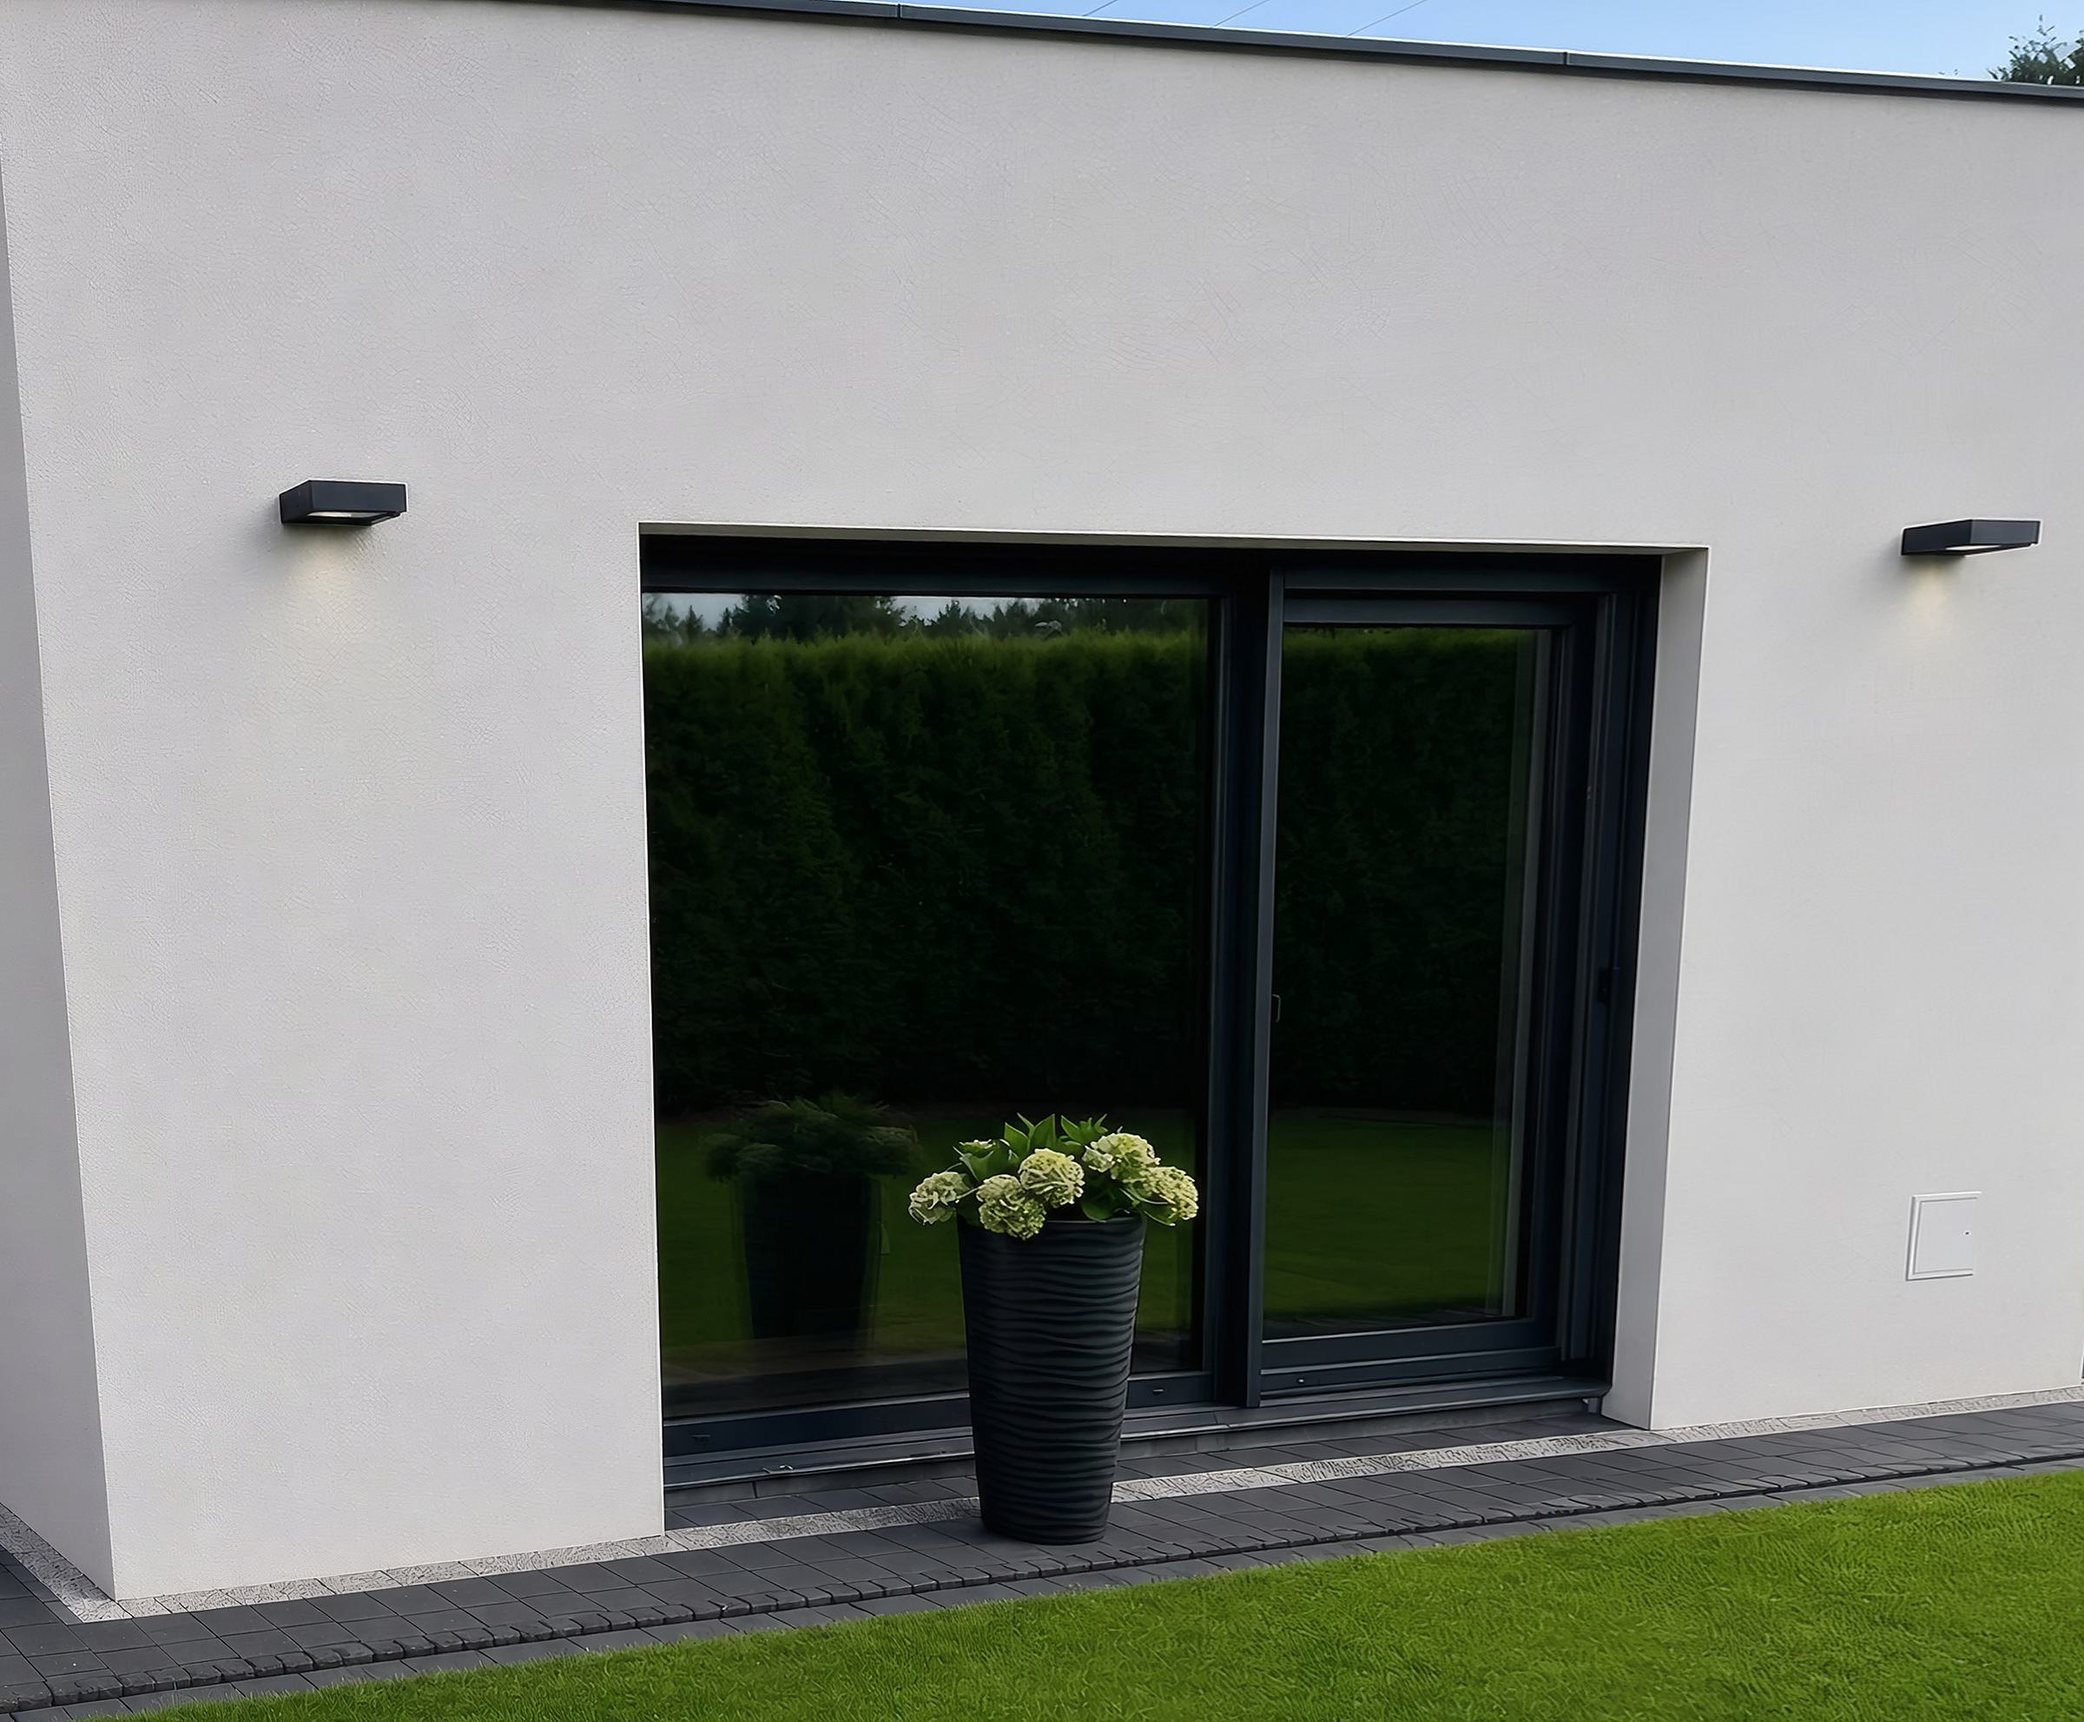
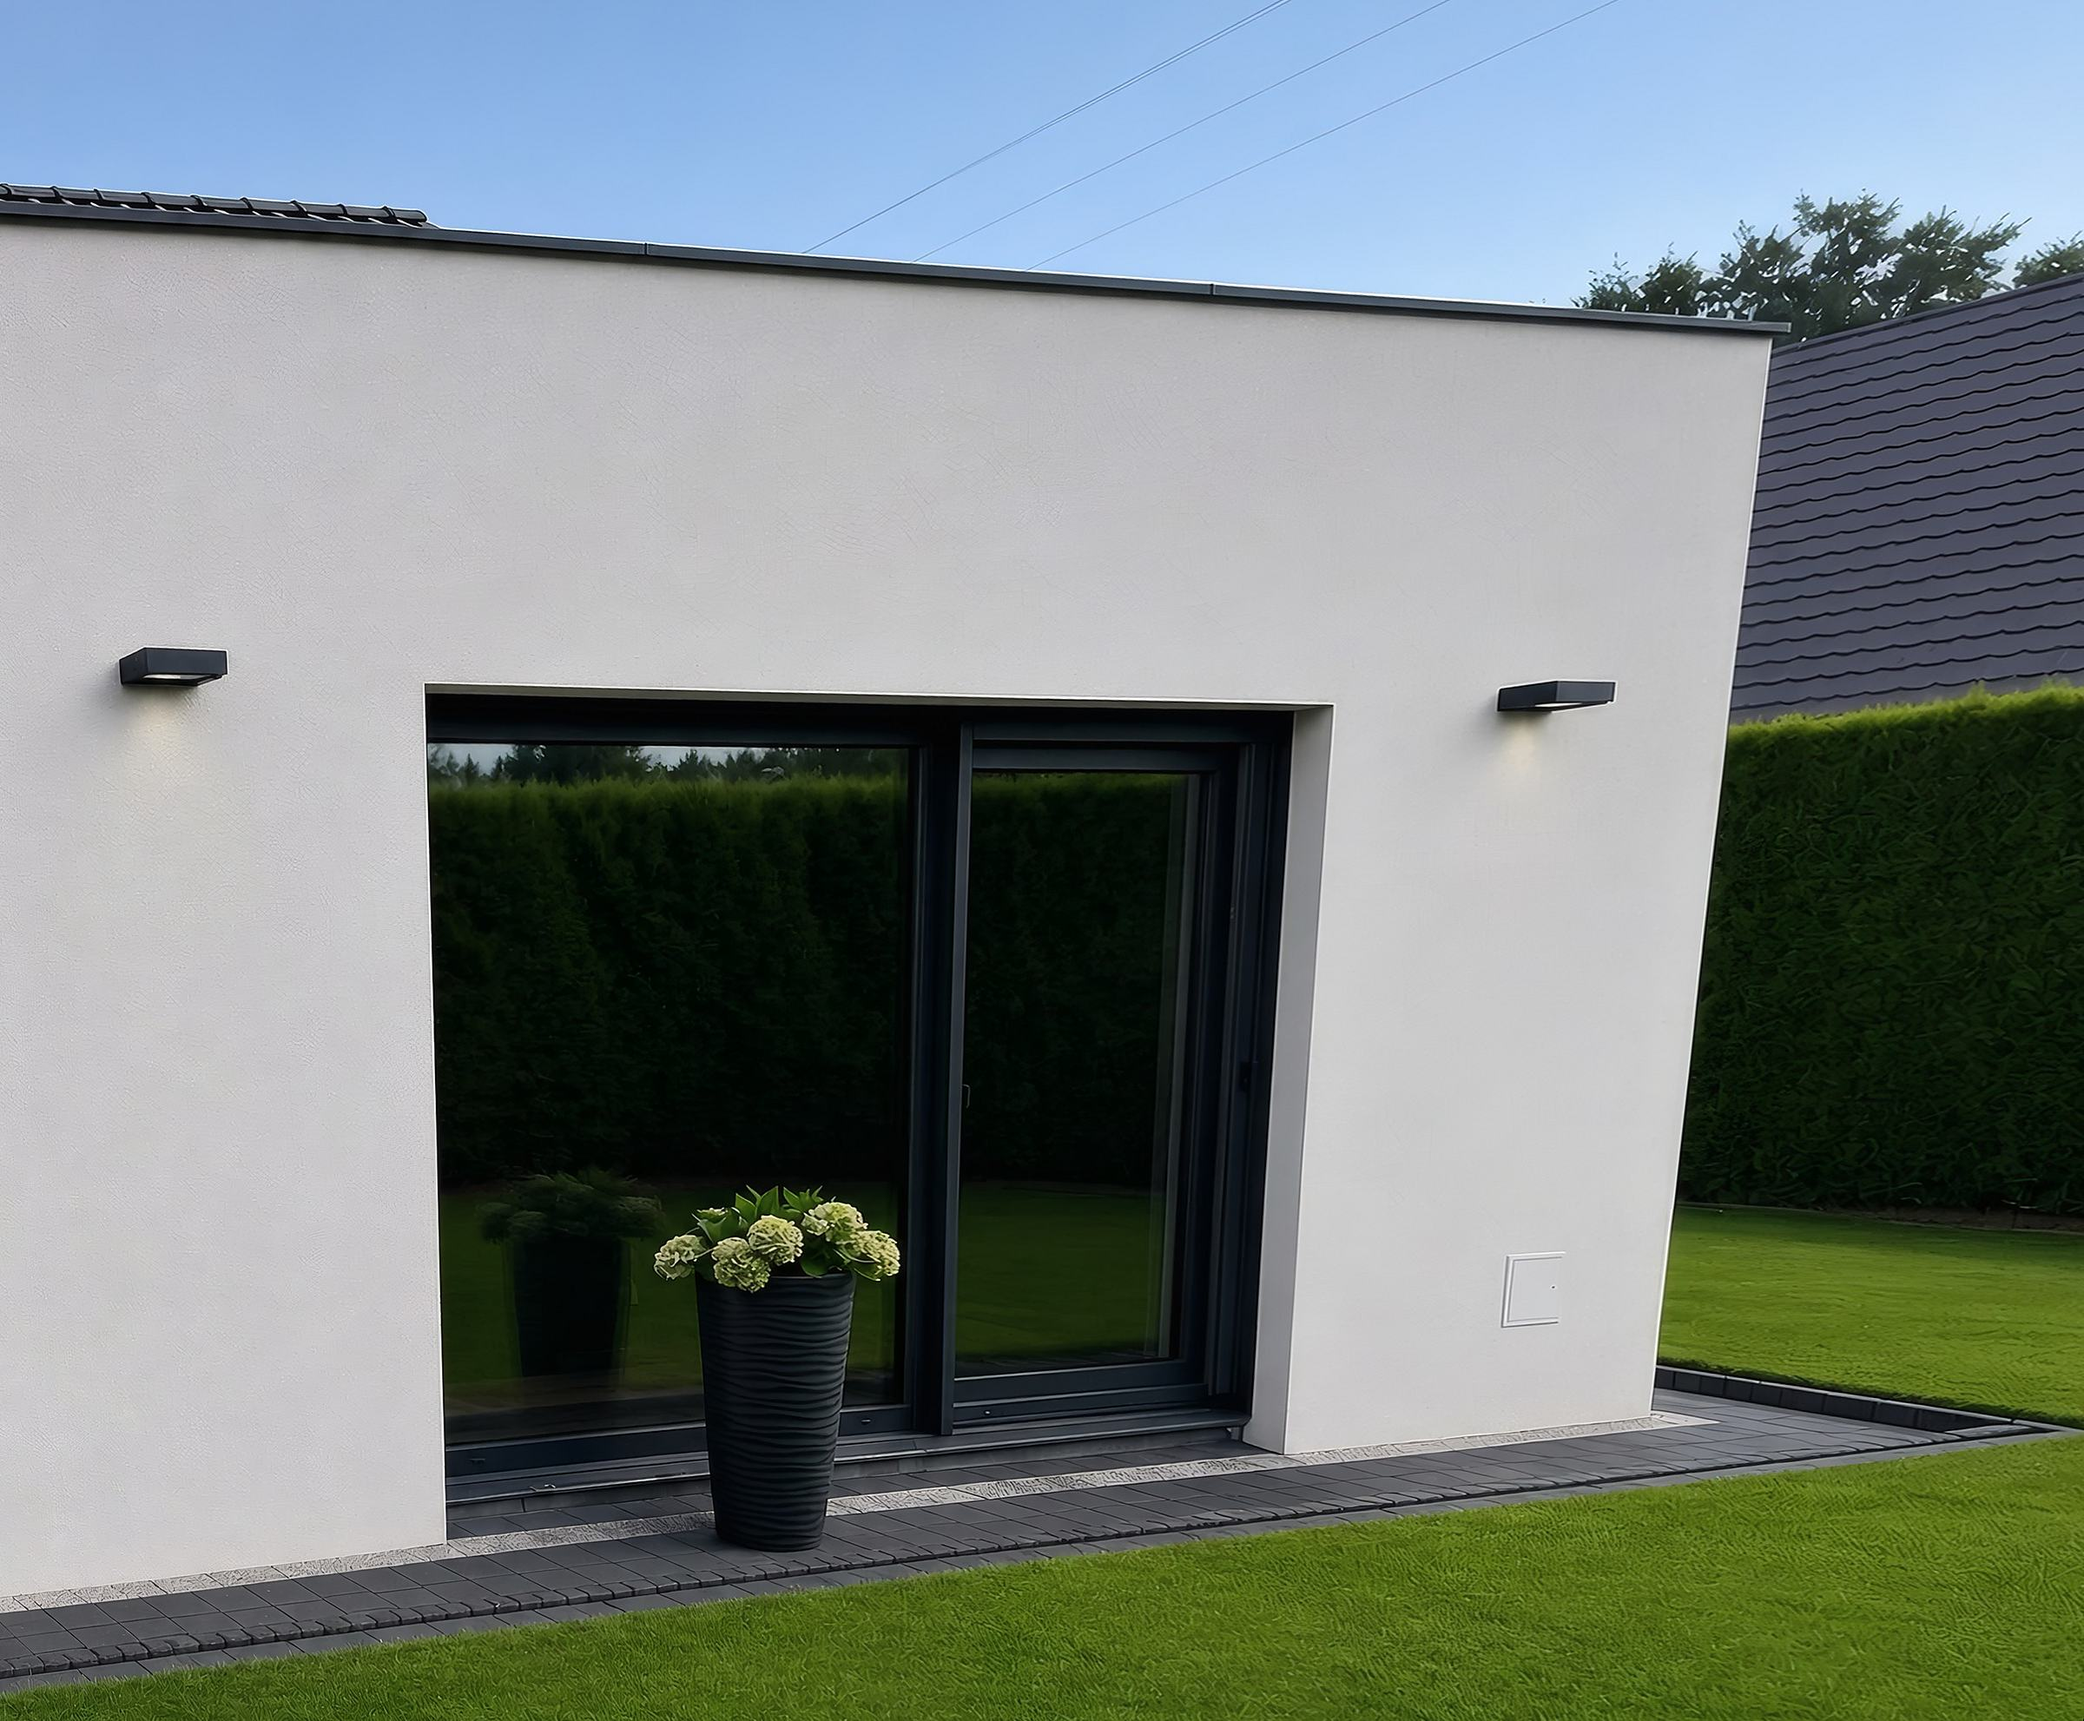
Kadr "po" oddalony o 18 procent
K.: "mozemy oddalic kadr tego zdjecia efektu po?". Mozna, bo z klocka zniknela
przesuwana linia - strzalka przeskakuje cale kadry, wiec kazde zdjecie moze miec
wlasne pole widzenia. "Po" wrocilo na wlasne, szersze okno: widac dach, narozznik,
opaske i trawnik.

Granica policzona, nie przepisana: _dokumentacja/maks-okno.py szuka najwiekszego
prostokata o proporcji pary, ktory w calosci lezy na pikselach zdjecia po homografii.
Wyszlo 1165 jednostek wobec 990 wspolnego okna, lewy gorny rog (70, -130).

Claude-Session: https://claude.ai/code/session_01UUJsy11A9owZ65mSof3JRs

diff --git a/przygotuj-media.py b/przygotuj-media.py
@@ -332,34 +332,28 @@ WAGI_SUWAKA = [3.0, 3.0, 1.0, 1.0, 1.0, 1.0]
 # i w atrybutach width/height w `pages.py`.
 OKNO_SUWAKA = (4, 4, 994, 822)
 
-# ── OKNO SZERSZE DLA „PO" (K. 11.09.2026: „można oddalić to zdjęcie po") ──────────
-# Wspólne okno wyżej jest przecięciem dwóch kadrów i dlatego „po" wychodziło z niego
-# przyciętym zbliżeniem na sam mur z oknem - nie było widać ANI dachu, ANI narożnika,
-# ANI trawnika, czyli tego, co klient sprzedaje. Powiększyć wspólnego okna się nie da:
-# „przed" po prostu nie ma tam pikseli (zmierzone - pokrycie 61 %).
+# -- OKNO SZERSZE DLA "PO" (K. 11.09.2026 i znow 14.09: "mozemy oddalic kadr tego
+#    zdjecia efektu po?") ---------------------------------------------------------
+# Wspolne okno wyzej jest przecieciem dwoch kadrow i dlatego "po" wychodzilo z niego
+# przycietym zblizeniem na sam mur z oknem - nie bylo widac ANI dachu, ANI narozzika,
+# ANI trawnika, czyli tego, co klient sprzedaje. Powiekszyc wspolnego okna sie nie da:
+# "przed" po prostu nie ma tam pikseli (zmierzone - pokrycie 61 %).
 #
-# Rozwiązanie: „po" dostaje WŁASNE, szersze okno, a stronę zestraja ruch, nie kadr.
-# Warstwa „po" startuje przeskalowana tak, że jej wycinek pokrywa się z „przed" co do
-# piksela (to jest dowód „ten sam narożnik"), a po przenikaniu odjeżdża do skali 1
-# i odsłania całą rozbudowę. Liczby idą parami z `app.css`:
-#     skala startowa 1,140  ·  translate(6.597%, -6.509%)
-# ⛔ Ruszasz OKNO_PO albo OKNO_SUWAKA → przelicz oba te parametry od nowa, inaczej
-#    warstwy rozjadą się w momencie przenikania (skala = szerokość OKNO_PO / OKNO_SUWAKA;
-#    przesunięcie = środek OKNO_SUWAKA wyrażony w OKNO_PO).
-# 🔴 Górna krawędź zatrzymana na -106,5: wyżej (od -164 w górę) leży ZNAK WODNY klienta
-#    wgrany w zdjęcie „po", a od -112 kończą się piksele. Prawa i dolna krawędź mają
-#    zapas ~100 i ~157 - granicą jest lewy górny róg.
-OKNO_PO = (0, -106.5, 1128.6, 826)
+# 🔴 14.09.2026: to okno wolno bylo przywrocic dopiero wtedy, kiedy z klocka zniknela
+#    PRZESUWANA LINIA. Przy linii oba zdjecia musialy siedziec w jednym oknie, bo po jej
+#    obu stronach ten sam mur stalby w innym miejscu. Strzalka przeskakuje cale kadry,
+#    wiec kazdy moze miec swoje pole widzenia.
+# ⛔ Wracasz do suwaka z linia -> "po" MUSI wrocic do OKNO_SUWAKA.
+#
+# Liczby nie sa dobrane na oko: `maks-okno.py` (sumy prefiksowe na masce pikseli) szukal
+# NAJWIEKSZEGO prostokata o proporcji pary, ktory w calosci lezy na prawdziwych pikselach
+# zdjecia po homografii. Wyszlo 1165 jednostek szerokosci (OKNO_SUWAKA ma 990, czyli
+# o 18 % wiecej kadru), lewy gorny rog (70, -130). Poza te granice wychodza juz czarne rogi
+# po prostowaniu. Proporcja MUSI zostac 1500/1239 - obie pary stoja obok siebie w rzedzie.
+OKNO_PO = (70, -130, 1235, 832.3)
 
-# 🔴 K. 14.09.2026: suwak WRACA do przesuwanej linii („zeby te przed i po byly obok
-#    siebie jedno po lewej drugie po prawej ... strzalka jakos przewija na efekt po").
-#    Przy linii styku OBIE warstwy MUSZA siedziec w TYM SAMYM oknie - inaczej po lewej
-#    i po prawej stronie linii ten sam mur jest w innym miejscu i cala sztuczka pada.
-#    Dlatego „po" wrocilo do OKNO_SUWAKA. Szersze OKNO_PO zostaje nizej wylacznie jako
-#    zapis, czym byl odjazd kadru z przenikania (11.09-14.09.2026) - NIE uzywaj go,
-#    dopoki suwak ma linie.
 SUWAK = [("przed.jpg", 1500, 82, OKNO_SUWAKA), ("przed@2x.jpg", 2400, 76, OKNO_SUWAKA),
-         ("po.jpg", 1500, 82, OKNO_SUWAKA), ("po@2x.jpg", 2400, 76, OKNO_SUWAKA)]
+         ("po.jpg", 1500, 82, OKNO_PO), ("po@2x.jpg", 2400, 76, OKNO_PO)]
 
 
 def _homografia(pary, wagi, skala):

diff --git a/_dokumentacja/maks-okno.py b/_dokumentacja/maks-okno.py
@@ -1,0 +1,48 @@
+# Ile da sie oddalic kadr "po": szukamy NAJWIEKSZEGO okna o proporcji pary,
+# ktore w calosci lezy na prawdziwych pikselach zdjecia po homografii.
+import importlib.util, numpy as np
+from PIL import Image, ImageDraw
+spec = importlib.util.spec_from_file_location('pm', 'przygotuj-media.py')
+pm = importlib.util.module_from_spec(spec); spec.loader.exec_module(pm)
+from PIL import ImageOps
+
+N, M = 2500, 1400
+po = ImageOps.exif_transpose(Image.open(pm.zrodlo("PO-rozbudowa.jpg"))).convert("RGB").resize((N, N), Image.LANCZOS)
+H = pm._homografia(pm.PARY_SUWAKA, pm.WAGI_SUWAKA, N / 1000)
+Hm = np.array(list(H) + [1.0]).reshape(3, 3)
+przes = np.array([[1, 0, -M], [0, 1, -M], [0, 0, 1]], float)
+Hp = (Hm @ przes).ravel(); Hp = (Hp / Hp[8])[:8]
+plotno = (N + 2 * M)
+poT = po.transform((plotno, plotno), Image.PERSPECTIVE, tuple(Hp), Image.BICUBIC)
+maska = Image.new("L", (N, N), 255).transform((plotno, plotno), Image.PERSPECTIVE, tuple(Hp), Image.BICUBIC)
+m = np.array(maska) > 200
+print("pikseli zdjecia na plotnie:", m.sum())
+
+# sumy prefiksowe -> szybkie sprawdzanie, czy prostokat jest w calosci pokryty
+ii = np.cumsum(np.cumsum(m.astype(np.int64), 0), 1)
+def pelne(x0, y0, x1, y1):
+    x0, y0, x1, y1 = int(x0), int(y0), int(x1), int(y1)
+    if x0 < 0 or y0 < 0 or x1 > plotno or y1 > plotno: return False
+    s = ii[y1-1, x1-1] - (ii[y0-1, x1-1] if y0 else 0) - (ii[y1-1, x0-1] if x0 else 0) + (ii[y0-1, x0-1] if x0 and y0 else 0)
+    return s == (x1 - x0) * (y1 - y0)
+
+PROP = 1500 / 1239
+ys, xs = np.where(m)
+print("zakres pikseli: x", xs.min(), xs.max(), " y", ys.min(), ys.max())
+skala = N / 1000                      # 1 jednostka skali 0-1000 = tyle pikseli plotna
+najlepsze = None
+for szer1000 in range(900, 1600, 5):  # szerokosc okna w skali 0-1000
+    w = szer1000 * skala; h = w / PROP
+    if w > plotno or h > plotno: continue
+    for x1000 in range(-300, 400, 5):
+        for y1000 in range(-400, 400, 5):
+            x = M + x1000 * skala; y = M + y1000 * skala
+            if pelne(x, y, x + w, y + h):
+                if najlepsze is None or w > najlepsze[0]:
+                    najlepsze = (w, h, x1000, y1000, szer1000)
+w, h, x1000, y1000, szer1000 = najlepsze
+print(f"NAJWIEKSZE OKNO: szerokosc {szer1000} jednostek (OKNO_SUWAKA ma 990), "
+      f"lewy gorny rog ({x1000}, {y1000})")
+print(f"  -> OKNO_PO = ({x1000}, {y1000}, {x1000+szer1000}, {round(y1000+szer1000/PROP,1)})")
+podglad = poT.crop((int(M + x1000*skala), int(M + y1000*skala), int(M + (x1000+szer1000)*skala), int(M + (y1000+szer1000/PROP)*skala)))
+podglad.resize((1000, int(1000/PROP))).save("/private/tmp/claude-501/-Users-krzysztof/8b1e1830-cfe4-4395-94c1-880e72ee4e6f/scratchpad/kandydat-po.png")

diff --git a/DESIGN.md b/DESIGN.md
@@ -525,16 +525,26 @@ efekt, żeby strona była consistent".
 ⛔ Dwa odrzucone podejścia, nie wracać: suwak z przesuwaną linią (odrzucony 10.09 i 14.09)
 oraz przenikanie całego kadru z odjazdem skali („goofy efekty", 14.09).
 
-### Czego suwak przed/po NIE potrafi — pole widzenia
+### Pole widzenia obu kadrów — co ogranicza, a co nie
 
-To, ile widać w kadrze, jest **częścią wspólną obu zdjęć** i nie da się tego powiększyć
-żadnym przekształceniem. U A.S Tchórzewski „po" zrobiono z ok. **20 % bliżej** niż „przed",
-więc żeby budynek się zgadzał, musi zostać powiększone — i pokazuje o tyle mniej otoczenia.
-Oddalenie go rozjechałoby dopasowanie, a poza krawędź tego pliku nie ma czego dołożyć.
+Dopóki klocek miał PRZESUWANĄ LINIĘ albo przenikanie, oba zdjęcia musiały siedzieć w jednym
+oknie kadru, czyli w **części wspólnej** obu ujęć — i tego nie da się powiększyć żadnym
+przekształceniem („przed" po prostu nie ma tam pikseli, pokrycie 61 %).
+
+🔴 Od 14.09.2026 klocek przełącza CAŁE kadry strzałką, więc każde zdjęcie ma własne pole
+widzenia. „Po" dostało z powrotem szerszy kadr (`OKNO_PO`, o 18 % szerszy od wspólnego) —
+widać dach, narożnik, opaskę i trawnik, czyli to, co klient sprzedaje. Granicę policzył
+`maks-okno.py`: największy prostokąt o proporcji pary, który w całości leży na prawdziwych
+pikselach zdjęcia po homografii. Dalej są już czarne rogi po prostowaniu.
+⛔ Wracasz do suwaka z linią → „po" MUSI wrócić do `OKNO_SUWAKA`.
+
+„Przed" zostaje w swoim oknie, bo ono i tak bierze prawie cały oryginał (odpada dolny pas
+trawnika ze znakiem wodnym). Zdjęcie zrobiono z ok. 20 % bliżej niż „po", więc po przełączeniu
+budynek widać w innej skali — to jest różnica dwóch ujęć, nie błąd kadrowania.
 
 ⛔ Nie dorysowywać brakującego otoczenia generatorem. Zdjęcie „przed i po" jest dowodem
 na robotę klienta; domalowany trawnik przestaje nim być.
 
-✅ Jedyne prawdziwe rozwiązanie: **poprosić klienta o drugie zdjęcie „po" z tego samego
+✅ Najlepsze rozwiązanie zostaje to samo: **poprosić klienta o drugie zdjęcie „po" z tego samego
 miejsca, z którego zrobił „przed"**. Warto dopisać to do listy pytań przy okazji prośby
 o oryginały z telefonu.

diff --git a/NOTATKI-BUDOWY.md b/NOTATKI-BUDOWY.md
@@ -1284,3 +1284,12 @@ stan `disabled` strzałek zgadza się ze stanem kadru.
 ⛔ Nie wracać do dwóch odrzuconych wersji: suwaka z przesuwaną linią (odrzucony 10.09 i 14.09)
 ani przenikania całego kadru z odjazdem skali („goofy efekty"). Zapis jednego i drugiego
 został w historii gita, w CSS-ie i JS-ie już ich nie ma.
+
+**15:50 — kadr „po" oddalony.** K.: „możemy oddalić kadr tego zdjęcia efektu po?". Można,
+bo z klocka zniknęła przesuwana linia: strzałka przeskakuje całe kadry, więc każde zdjęcie
+może mieć własne pole widzenia (przy linii oba musiały siedzieć w jednym oknie). „Po" wróciło
+na własne, szersze okno - tym razem policzone, nie przepisane: `maks-okno.py` przeszukał maskę
+pikseli sumami prefiksowymi i znalazł największy prostokąt o proporcji pary leżący w całości
+na zdjęciu po homografii. Wyszło 1165 jednostek szerokości wobec 990 wspólnego okna, lewy górny
+róg (70, -130), czyli o 18 % więcej kadru: widać dach, narożnik, opaskę i trawnik.
+⛔ Wraca suwak z linią → „po" wraca do `OKNO_SUWAKA`.
